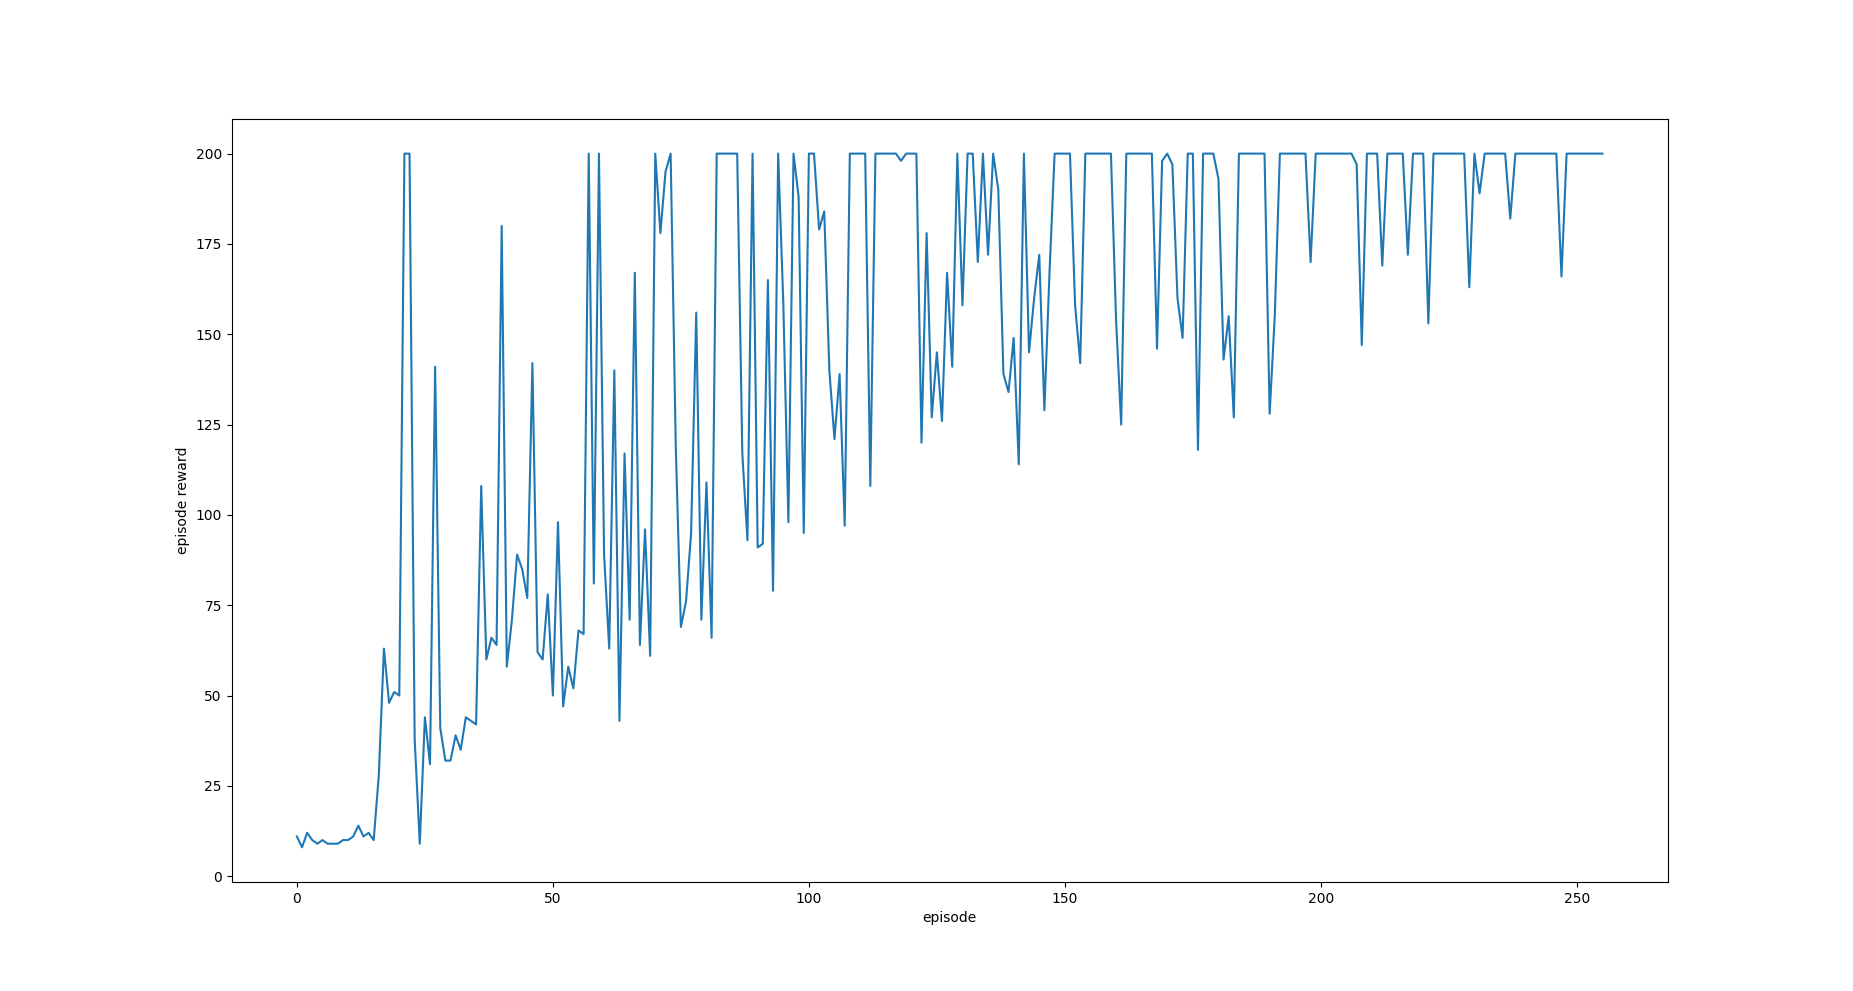
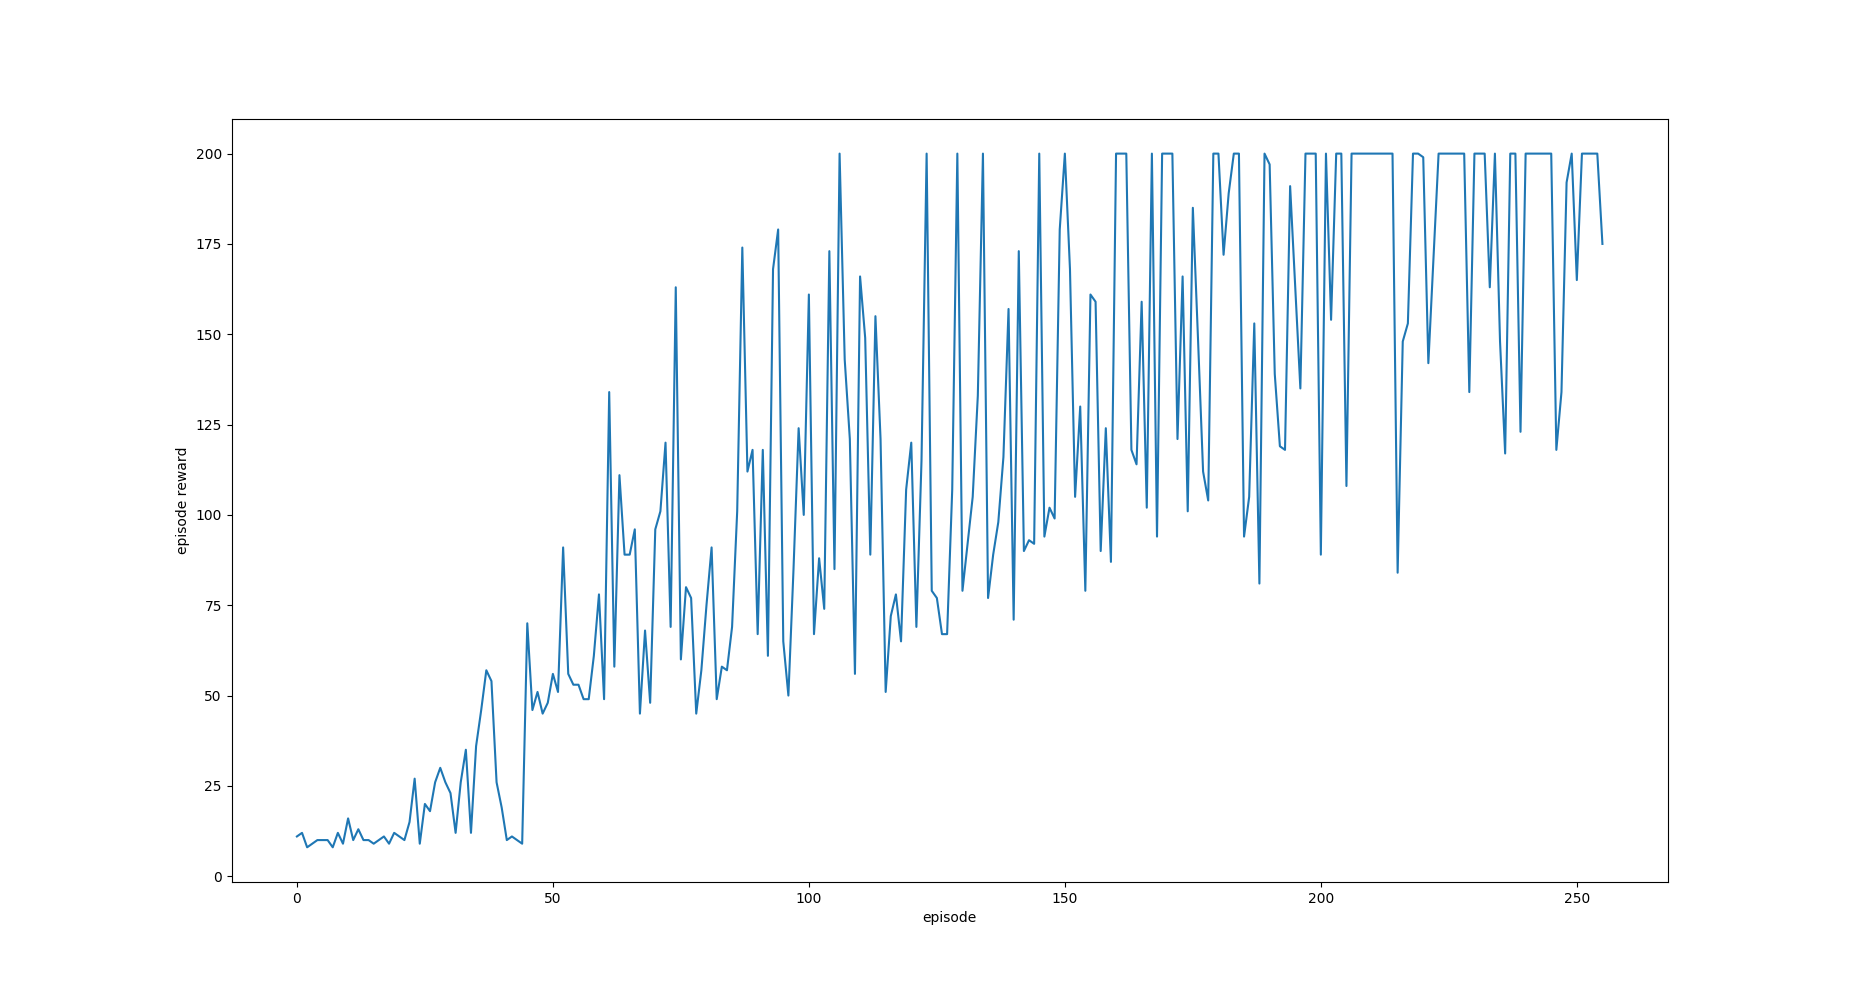
offline training possible in-between online steps

diff --git a/wombat/train.py b/wombat/train.py
@@ -5,7 +5,20 @@ from wombat.episode_replay import EpisodeReplay
 import wombat.choice as choice
 
 
-def run(model, tf_session, environment, test=False, num_episodes=None, epsilon=None, discount=.99, online_learning_rate=2e-3, offline_learning_rate=2e-3, learning_decay=.97, offline_per_online=16):
+def run(
+    model,
+    tf_session,
+    environment,
+    test=False,
+    num_episodes=None,
+    epsilon=None,
+    discount=.99,
+    online_learning_rate=2e-3,
+    replay_learning_rate=2e-3,
+    learning_decay=.97,
+    online_steps_per_replay=16,
+    max_replay_steps=None,
+    num_replays_after_completed_episode=4):
     '''
     Run model in testing or training mode on given OpenAI-gym-like environment
     Return a list of replays for all episodes
@@ -16,11 +29,12 @@ def run(model, tf_session, environment, test=False, num_episodes=None, epsilon=N
         epsilon = 0 if test else .1
 
     episode_replays = []
+    total_passed_steps = 0
     rolling_average_reward = 0
 
     for episode in trange(num_episodes):
         observation = environment.reset()
-        replay = EpisodeReplay(initial_observation=observation, num_possible_actions=environment.action_space.n)
+        current_replay = EpisodeReplay(initial_observation=observation, num_possible_actions=environment.action_space.n)
         done = False
 
         while True:
@@ -29,40 +43,61 @@ def run(model, tf_session, environment, test=False, num_episodes=None, epsilon=N
 
             if test:
                 environment.render()
-            elif len(replay.rewards) > 0:
-                learning_rate = online_learning_rate * learning_decay ** rolling_average_reward
-                replay.train(
-                    model=model,
-                    tf_session=tf_session,
-                    discount=discount,
-                    learning_rate=learning_rate,
-                    start_step=len(replay.rewards) - 1) # train on last step only
+            else:
+                if total_passed_steps % online_steps_per_replay == 0 and len(episode_replays) > 0:
+                    train_on_replays(
+                        model=model,
+                        tf_session=tf_session,
+                        episode_replays=episode_replays,
+                        num_replays=1,
+                        discount=discount,
+                        learning_rate=replay_learning_rate * learning_decay ** rolling_average_reward,
+                        max_replay_steps=max_replay_steps)
+                if len(current_replay) > 0:
+                    current_replay.train(
+                        model=model,
+                        tf_session=tf_session,
+                        discount=discount,
+                        learning_rate=online_learning_rate * learning_decay ** rolling_average_reward,
+                        start_step=len(current_replay) - 1) # train on last step only
 
             if done:
-                episode_replays.append(replay)
-                rolling_average_reward = rolling_average_reward * learning_decay + replay.total_reward() * (1 - learning_decay)
+                episode_replays.append(current_replay)
+                rolling_average_reward = rolling_average_reward * learning_decay + current_replay.total_reward() * (1 - learning_decay)
                 break
 
             observation, reward, done, info = environment.step(chosen_action)
-            replay.register_step(observation=observation, action=chosen_action, reward=reward, done=done)
+            current_replay.register_step(observation=observation, action=chosen_action, reward=reward, done=done)
+            total_passed_steps += 1
 
         if not test:
-            # offline training
-            learning_rate = offline_learning_rate * learning_decay ** rolling_average_reward
-            train_offline(
+            train_on_replays(
                 model=model,
                 tf_session=tf_session,
                 episode_replays=episode_replays,
-                num_episodes=offline_per_online,
+                num_replays=num_replays_after_completed_episode,
                 discount=discount,
-                learning_rate=learning_rate)
+                learning_rate=replay_learning_rate * learning_decay ** rolling_average_reward,
+                max_replay_steps=max_replay_steps)
 
     environment.close()
     return episode_replays
 
 
-def train_offline(model, tf_session, episode_replays, num_episodes, discount, learning_rate):
+def train_on_replays(model, tf_session, episode_replays, num_replays, discount, learning_rate, max_replay_steps=None):
     '''Randomly (with replacement) pick episode replays and train on them'''
-    replays_to_train_on = random.choices(episode_replays, k=num_episodes)
+    replays_to_train_on = random.choices(episode_replays, k=num_replays)
     for episode_replay in replays_to_train_on:
-        episode_replay.train(model=model, tf_session=tf_session, discount=discount, learning_rate=learning_rate)
+        if max_replay_steps is not None:
+            num_steps_to_train_on = min(len(episode_replay), max_replay_steps)
+        else:
+            num_steps_to_train_on = len(episode_replay)
+        start_step = np.random.randint(0, len(episode_replay) - num_steps_to_train_on + 1)
+        end_step = start_step + num_steps_to_train_on
+        episode_replay.train(
+            model=model,
+            tf_session=tf_session,
+            discount=discount,
+            learning_rate=learning_rate,
+            start_step=start_step,
+            end_step=end_step)

diff --git a/wombat/episode_replay.py b/wombat/episode_replay.py
@@ -23,7 +23,7 @@ class EpisodeReplay:
     def train(self, model, tf_session, discount, learning_rate, start_step=0, end_step=None):
         '''Train model on the steps from this episode'''
         if end_step is None:
-            end_step = len(self.actions)
+            end_step = len(self)
         for step in reversed(range(start_step, end_step)): # reverse so that we don't fit to things that will soon be modified
             expected_rewards = choice.expected_rewards(
                 model=model,
@@ -42,3 +42,11 @@ class EpisodeReplay:
 
     def total_reward(self):
         return np.sum(self.rewards)
+
+
+    def __len__(self):
+        '''
+        The number of registered steps
+        Note that the number of registered observations is one greater than this, due to environments producing initial observations
+        '''
+        return len(self.rewards)
